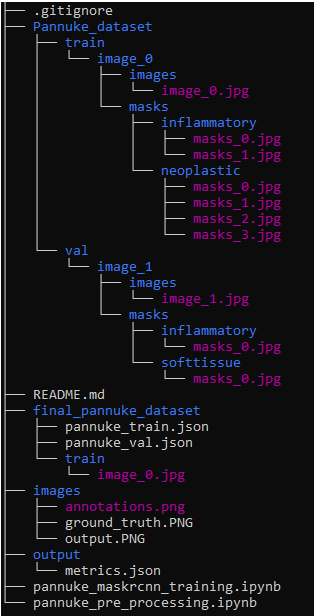
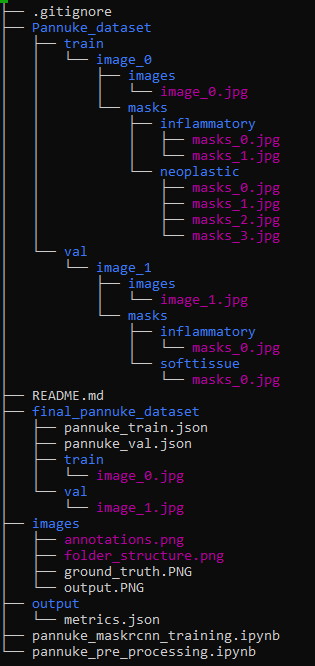
updated readme

Changed region(s): [[0.0, 0.0, 1.0, 1.0], [0.2, 0.3701, 0.2857, 0.4318]]

diff --git a/README.md b/README.md
@@ -1,2 +1,69 @@
-# pathology_maskrcnn
+# A MaskRCNN model for cell instance segmentation in digital pathology
 The Detectron 2 MaskRCNN implementation for the PanNuke Dataset (https://jgamper.github.io/PanNukeDataset/). 
+
+## Dataset information
+
+The dataset consists of 481 visual fields, of which 312 are randomly sampled from more than 20K whole slide images at different magnifications, from multiple data sources. In total the dataset contains 205,343 labeled nuclei, each with an instance segmentation mask.
+
+The ground truth annotation samples are shown in the figure below:
+
+![Annotations](images/annotations.png)
+
+Each instance of the 5 cell classes are annotated separately (Red: Neoplastic; Green: Inflammatory; Dark Blue: Connective; Yellow: Dead; Orange: Epithelial)
+
+
+The MaskRCNN instance segmentation model was developed using Facebook AI reseach's (FAIR) Detectron 2 framework. 
+
+## Training and inference
+
+The folder structure of this repository is shown below:
+
+![Folder structure](images/folder_structure.png)
+
+The 'Pannuke_dataset' folder contains the original dataset with seperate sub-folders for images and masks. The mask folder contains sub-folders for each cell type present under which each cell instance is given as a separate mask image.
+
+The 'pannuke_pre_processing.ipynb' notebook is used to pre-process and convert the original dataset in a structure that detectron 2 expects.
+
+On succesfully running the pre-processing notebook, a folder called 'final_pannule_dataset' is created along with the train.json and val.json files which are in coco format.
+
+The created folder and json annotation files can be now used to train the MaskRCNN model using the 'pannuke_maskrcnn_training.ipynb' notebook. Inference is done in the same notebook.
+
+## Output
+An example of the ground truth (left) and the prediction (right) is shown below:
+
+![Ground truth](images/ground_truth.png)      ![Output](images/output.png)
+
+## References
+
+@inproceedings{gamper2019pannuke,
+  title={PanNuke: an open pan-cancer histology dataset for nuclei instance segmentation and classification},
+  author={Gamper, Jevgenij and Koohbanani, Navid Alemi and Benet, Ksenija and Khuram, Ali and Rajpoot, Nasir},
+  booktitle={European Congress on Digital Pathology},
+  pages={11--19},
+  year={2019},
+  organization={Springer}
+}
+
+@article{gamper2020pannuke,
+  title={PanNuke Dataset Extension, Insights and Baselines},
+  author={Gamper, Jevgenij and Koohbanani, Navid Alemi and Graham, Simon and Jahanifar, Mostafa and Khurram, Syed Ali and Azam, Ayesha and Hewitt, Katherine and Rajpoot, Nasir},
+  journal={arXiv preprint arXiv:2003.10778},
+  year={2020}
+}
+
+@misc{Detectron2018,
+  author =       {Ross Girshick and Ilija Radosavovic and Georgia Gkioxari and
+                  Piotr Doll\'{a}r and Kaiming He},
+  title =        {Detectron},
+  howpublished = {\url{https://github.com/facebookresearch/detectron}},
+  year =         {2018}
+}
+
+
+
+
+
+
+
+
+
